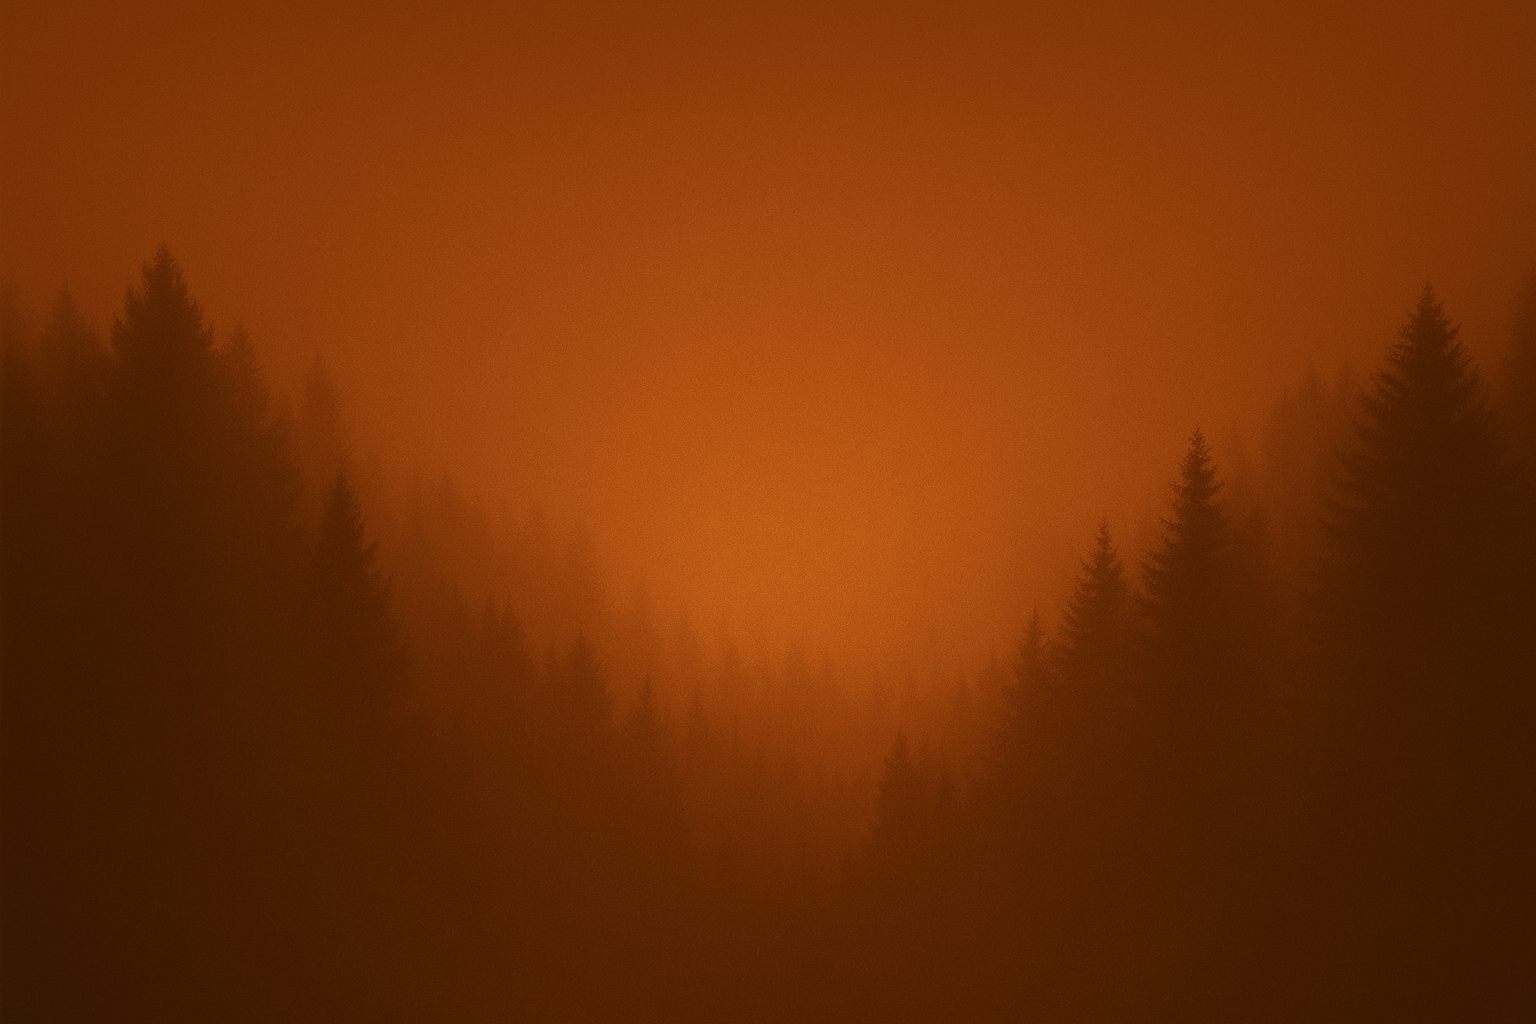
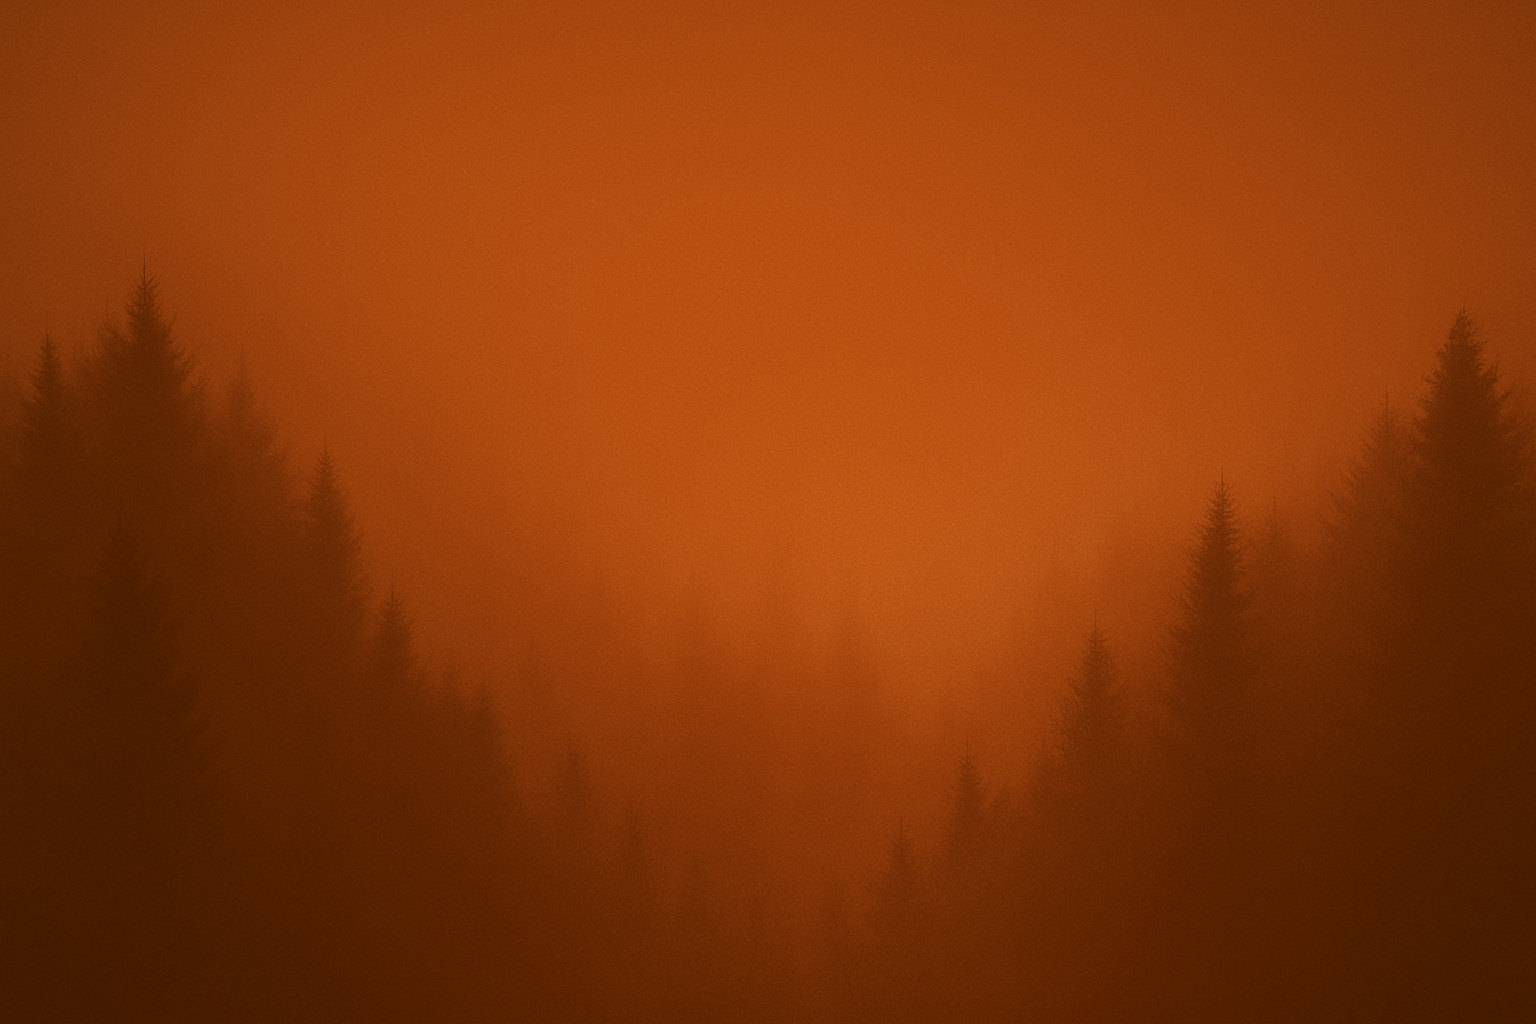
home page

diff --git a/src/index.css b/src/index.css
@@ -2,16 +2,25 @@
 html {
   box-sizing: border-box;
   font-size: 16px;
-  background-color: #fdf2e9;
+  scroll-behavior: smooth;
 }
 body {
   font-family: 'Inter', sans-serif;
   margin: 0;
-  background-color: #fff;
+  background-color: #fdf2e9;
   color: #1f2937;
+  overflow-x: hidden;
+}
+
+html, body {
+  overscroll-behavior: none;
 }
 
 /* Hero Section */
+h1, h2 {
+  font-family: 'Playfair Display', serif;
+}
+
 .hero {
   position: relative;
   width: 100%;
@@ -26,41 +35,55 @@ body {
   display: flex;
   flex-direction: column;
   align-items: center;
-  justify-content: center;
+  justify-content: flex-start;  /* align top */
   text-align: center;
   height: 100%;
-  padding: 2rem;
+  padding-top: 14rem;
+  padding-left: 2rem;
+  padding-right: 2rem;
   color: white;
-  background: rgba(0, 0, 0, 0.4);
-  backdrop-filter: blur(1.5px);
+  background: transparent;
+  backdrop-filter: blur(2px);
 }
+
 
 .hero-overlay h1 {
   font-size: 3rem;
-  font-weight: 800;
+  font-family: 'Playfair Display', serif;
+  font-weight: 700;
+  color: #fbe8dc;
   margin-bottom: 1rem;
-  color: #fff;
+  text-shadow: 1px 1px 2px rgba(0,0,0,0.3);
 }
 
 .hero-overlay p {
-  font-size: 1.25rem;
+  font-size: 1.2rem;
+  color: #fbe8dc;
   margin-bottom: 2rem;
-  color: white;
+  text-shadow: 1px 1px 2px rgba(0,0,0,0.3);
 }
 
 .hero-button {
-  background: #a91e22;
-  color: white;
-  padding: 0.75rem 1.75rem;
+  background: #761d04;
+  color: #fbe8dc;
+  font-family: 'Playfair Display', serif;
+  font-size: 1.1rem;
   font-weight: 600;
-  border-radius: 0.5rem;
+  padding: 0.9rem 2.4rem;
+  border: none;
+  border-radius: 9999px; /* full pill shape */
+  cursor: pointer;
   text-decoration: none;
-  transition: background 0.3s ease;
+  box-shadow: inset 0 0 4px rgba(255, 255, 255, 0.05),
+              0 4px 12px rgba(0, 0, 0, 0.2);
+  transition: background 0.3s ease, transform 0.2s ease;
+  letter-spacing: 0.4px;
 }
 
 .hero-button:hover {
-  background: #7a1417;
+  transform: translateY(-2px);
 }
+
 
 /* Info Section */
 .info {
@@ -95,7 +118,7 @@ body {
 /* Topics Section */
 .topics {
   background: #fdf2e9;
-  padding: 4rem 1rem;
+  padding: 2rem 1rem;
   text-align: center;
 }
 
@@ -131,9 +154,24 @@ body {
 }
 
 .topic-icon {
-  width: 48px;
-  height: 48px;
-  margin-bottom: 1rem;
+  width: 80px;
+  height: 80px;
+  display: block;
+  margin: 0 auto 1rem auto;
+  object-fit: contain;
+}
+.causes-icon {
+  transform: scale(1.05) translateY(2px);
+}
+.solutions-icon {
+  transform: scale(1.4) translateY(8px);
+  filter: brightness(1.2);
+}
+.history-icon {
+  transform: scale(0.95) translateY(2px);
+}
+.impact-icon {
+  transform: scale(1.2) translateY(4px);
 }
 
 .topic-card h3 {
@@ -149,14 +187,34 @@ body {
 }
 
 /* Footer */
-footer {
+.footer {
+  background-color: #f3f4f6;
+  color: #4b5563;
   text-align: center;
-  background: #f3f4f6;
-  color: #6b7280;
   padding: 2rem 1rem;
-  margin-top: 4rem;
   font-size: 0.875rem;
+  margin-top: 4rem;
 }
+
+.footer-links {
+  margin-top: 1rem;
+  display: flex;
+  justify-content: center;
+  gap: 2rem;
+  flex-wrap: wrap;
+}
+
+.footer-links a {
+  color: #4b5563;
+  text-decoration: none;
+  font-weight: 500;
+  transition: color 0.3s ease;
+}
+
+.footer-links a:hover {
+  color: #be123c;
+}
+
 
 /* Responsive */
 @media (max-width: 768px) {
@@ -181,7 +239,7 @@ footer {
   justify-content: center;
   gap: 2rem;
   padding: 1rem;
-  background-color: rgba(255, 255, 255, 0.9);
+  background-color: #fdf2e9;
   position: absolute;
   top: 0;
   width: 100%;

diff --git a/src/pages/Home.jsx b/src/pages/Home.jsx
@@ -4,8 +4,9 @@ import '../index.css';
 export default function Home() {
   return (
     <div className="home">
-      {/* Hero */}
+      {/* Hero Section */}
       <section className="hero">
+        <img src="/images/hero." alt="Wildfire background" />
         <div className="hero-overlay">
           <h1>Wildfire Crisis Awareness</h1>
           <p>Raising awareness, understanding impacts, and sharing solutions.</p>
@@ -13,7 +14,7 @@ export default function Home() {
         </div>
       </section>
 
-      {/* Info */}
+      {/* Info Section */}
       <section className="info">
         <div className="info-text">
           <h2>Why Wildfire Awareness Matters</h2>
@@ -25,22 +26,22 @@ export default function Home() {
         <img src="/images/tree-fire.png" alt="Man near wildfire" className="info-img" />
       </section>
 
-      {/* Topics */}
+      {/* Topics Section */}
       <section className="topics">
         <h2>Explore Topics</h2>
         <div className="cards">
-          {[
-            { title: 'History', icon: '/images/history.png', link: '/history' },
-            { title: 'Causes', icon: '/images/causes.png', link: '/causes' },
-            { title: 'Impact', icon: '/images/impact.png', link: '/impact' },
-            { title: 'Solutions', icon: '/images/solutions.png', link: '/solutions' },
-          ].map(({ title, icon, link }) => (
-            <Link key={title} to={link} className="topic-card">
-              <img src={icon} alt={`${title} icon`} className="topic-icon" />
-              <h3>{title}</h3>
-              <p>Learn more about {title.toLowerCase()}.</p>
-            </Link>
-          ))}
+        {[
+          { title: 'History', icon: '/images/history.png', link: '/history' },
+          { title: 'Causes', icon: '/images/causes.png', link: '/causes' },
+          { title: 'Impact', icon: '/images/impact.png', link: '/impact' },
+          { title: 'Solutions', icon: '/images/solutions.png', link: '/solutions' },
+        ].map(({ title, icon, link }) => (
+          <Link key={title} to={link} className="topic-card">
+            <img src={icon} alt="..." className={`topic-icon ${title.toLowerCase()}-icon`} />
+            <h3>{title}</h3>
+            <p>Learn more about {title.toLowerCase()}.</p>
+          </Link>
+        ))}
         </div>
       </section>
     </div>

diff --git a/src/App.jsx b/src/App.jsx
@@ -29,7 +29,7 @@ export default function App() {
         <Route path="/solutions" element={<Solutions />} />
       </Routes>
 
-      <footer className="main-footer">
+      <footer className="footer">
         <p>&copy; {new Date().getFullYear()} Wildfire Awareness. All rights reserved.</p>
         <div className="footer-links">
           <a href="#">About</a>

diff --git a/index.html b/index.html
@@ -9,6 +9,8 @@
       href="https://fonts.googleapis.com/css2?family=Inter:wght@400;600;700&display=swap"
       rel="stylesheet"
     />
+    <link href="https://fonts.googleapis.com/css2?family=Playfair+Display:wght@500;700;800&display=swap" rel="stylesheet">
+
   </head>
   <body class="font-sans bg-white text-slate-800">
     <div id="root"></div>
